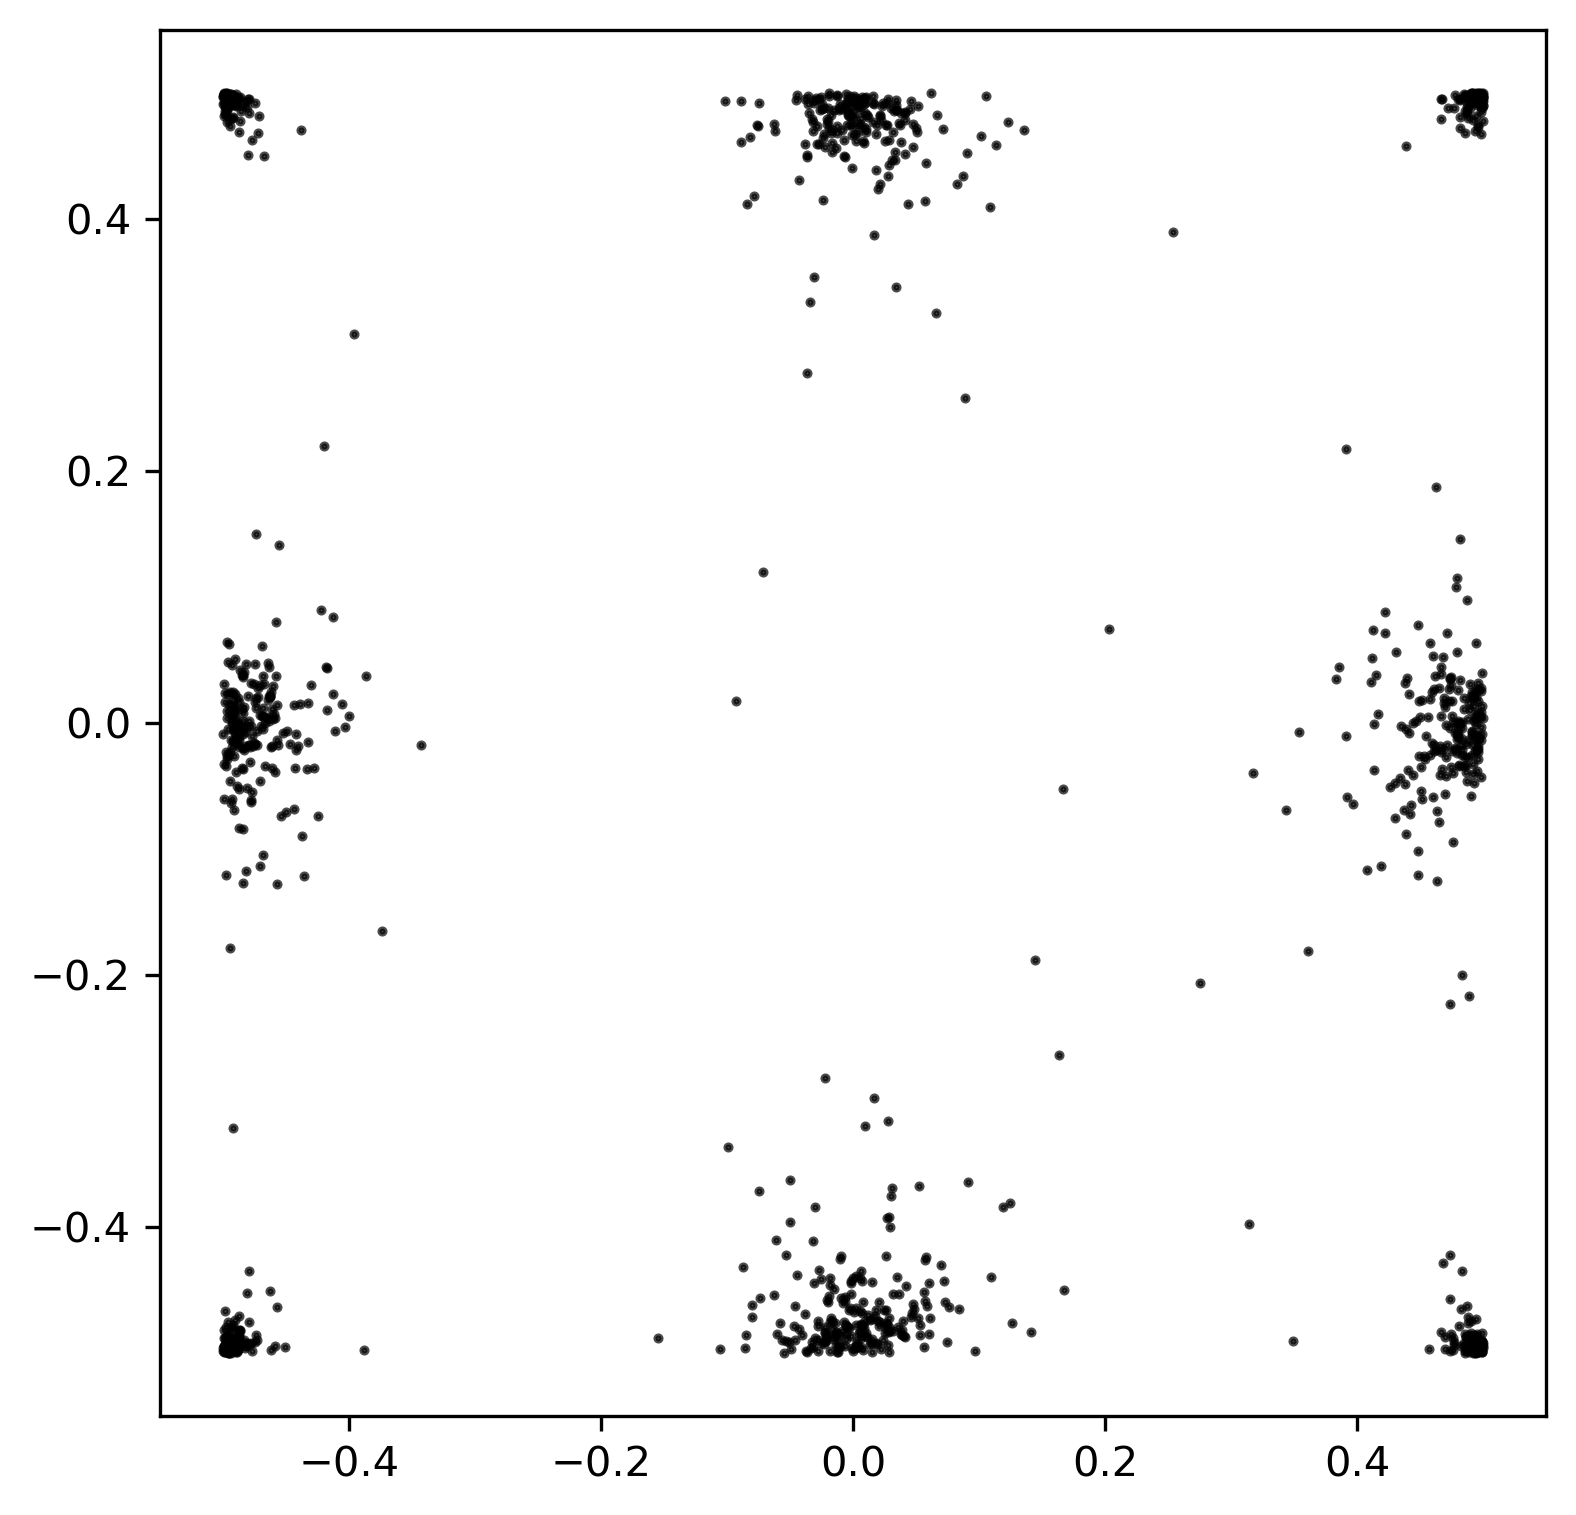
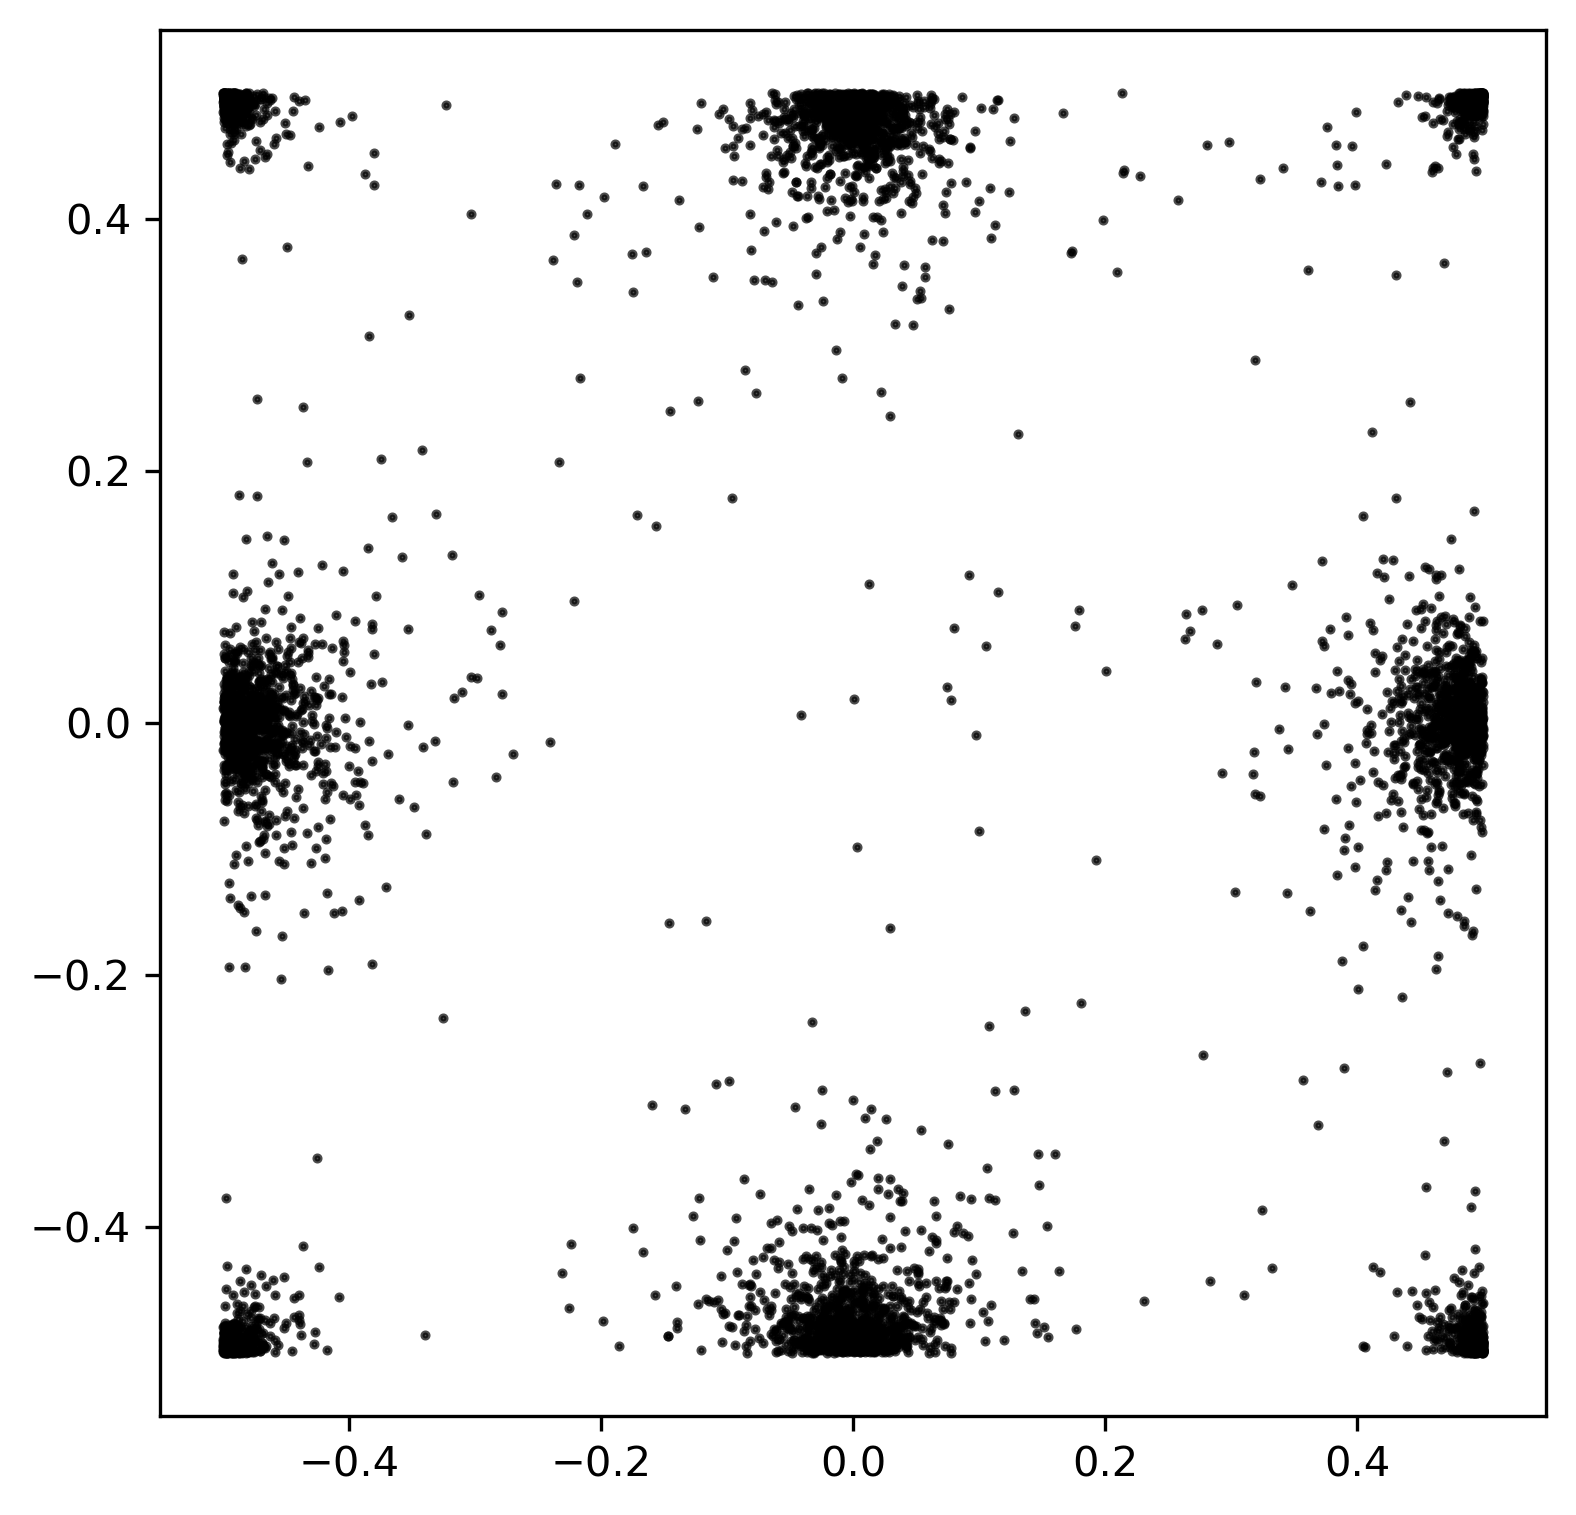
Updated weight calculations

diff --git a/IPS/PointGeneratorMathematicaCICYIPS.m b/IPS/PointGeneratorMathematicaCICYIPS.m
@@ -23,7 +23,7 @@ PrintMsg[msg_, frontEnd_, verbose_] := Module[{}, (
 
 (* Compute Fubini-Study metric with optional Hermitian matrix h *)
 getFS[varsUnflat_, bvarsUnflat_, h_: {}, kval_: 1] := Module[{hh, s, bs, kk, dimPs, result, i, j, a, b}, (
-    dimPs = Length /@ varsUnflat;
+    dimPs = (Length /@ varsUnflat) - 1;
     hh = h;
     kk = kval;
     
@@ -113,7 +113,7 @@ getWeightOmegas[varsFlat_, bvarsFlat_, varsUnflat_, dimPs_, g_, eqns_, beqns_, p
     
     (* Build Jacobian submatrix for dependent coordinates *)
     (* dw[a,i] gives derivative of ambient coordinate a with respect to intrinsic coordinate i *)
-    jacSubmatrix = Table[jacRows[[i, maxPoss[[j]]]], {i, numEqns}, {j, numEqns}];
+    jacSubmatrix = Table[jacRows[[alpha, maxPoss[[beta]]]], {alpha, numEqns}, {beta, numEqns}];
     jacSubmatrixInv = Inverse[jacSubmatrix];
 
     (* DEBUG: Check if Jacobian is singular *)
@@ -121,13 +121,30 @@ getWeightOmegas[varsFlat_, bvarsFlat_, varsUnflat_, dimPs_, g_, eqns_, beqns_, p
         Return[{Indeterminate, Indeterminate}];
     ];
 
-    dw[a_, i_] := If[a == patchIndex, 0,
+    dw[a_, i_] := If[a == patchIndex, 
+        0,
         If[MemberQ[maxPossGlobal, a],
-            (* This is a dependent coordinate *)
-            Module[{eqnIndex},
-                eqnIndex = Position[maxPossGlobal, a][[1, 1]];
-                (* Use implicit function theorem: dx_dep/dz_i = -J^(-1) * dp/dz_i *)
-                -Sum[jacSubmatrixInv[[eqnIndex, k]] * D[eqns[[k]], varsFlat[[i]]], {k, numEqns}] /. substCoords
+            (* This is a dependent coordinate: z^a = z^{dep_alpha} *)
+            Module[{alphaIndex, localIndexI},
+                (* Find which dependent coordinate this is (1 to k) *)
+                alphaIndex = Position[maxPossGlobal, a][[1, 1]];
+            
+                (* Check if i is also a dependent coordinate or independent *)
+                If[MemberQ[maxPossGlobal, i],
+                    (* i is dependent - need more complex formula *)
+                    (* For dependent coords, ∂z^{dep_alpha}/∂z^{dep_beta} involves Jacobian *)
+                    Module[{betaIndex},
+                        betaIndex = Position[maxPossGlobal, i][[1, 1]];
+                        (* This should rarely be called for standard intrinsic coordinates *)
+                        (* but we include it for completeness *)
+                        If[alphaIndex == betaIndex, 
+                            1, 
+                            0
+                        ]
+                    ],
+                    (* i is independent - apply IFT: ∂z^{dep_alpha}/∂z^i = -[J^{-1}]_{alpha,gamma} ∂p_gamma/∂z^i *)
+                    -Sum[jacSubmatrixInv[[alphaIndex, gamma]] * D[eqns[[gamma]], varsFlat[[i]]], {gamma, numEqns}] /. substCoords
+                ]
             ],
             (* This is an independent coordinate *)
             If[a == i, 1, 0]
@@ -135,7 +152,7 @@ getWeightOmegas[varsFlat_, bvarsFlat_, varsUnflat_, dimPs_, g_, eqns_, beqns_, p
     ];
     
     (* Build antiholomorphic Jacobian submatrix *)
-    bjacSubmatrix = Table[bjacRows[[i, maxPoss[[j]]]], {i, numEqns}, {j, numEqns}];
+    bjacSubmatrix = Table[bjacRows[[alpha, maxPoss[[beta]]]], {alpha, numEqns}, {beta, numEqns}];
     bjacSubmatrixInv = Inverse[bjacSubmatrix];
 
     (* DEBUG: Check if antiholomorphic Jacobian is singular *)
@@ -143,12 +160,26 @@ getWeightOmegas[varsFlat_, bvarsFlat_, varsUnflat_, dimPs_, g_, eqns_, beqns_, p
         Return[{Indeterminate, Indeterminate}];
     ];
 
-    dbw[a_, i_] := If[a == patchIndex, 0,
+    (* dbw[a,i] gives ∂\bar{z}^a/∂\bar{w}^i *)
+    dbw[a_, i_] := If[a == patchIndex, 
+        0,
         If[MemberQ[maxPossGlobal, a],
             (* This is a dependent coordinate *)
-            Module[{eqnIndex},
-                eqnIndex = Position[maxPossGlobal, a][[1, 1]];
-                -Sum[bjacSubmatrixInv[[eqnIndex, k]] * D[beqns[[k]], bvarsFlat[[i]]], {k, numEqns}] /. substbCoords
+            Module[{alphaIndex},
+                alphaIndex = Position[maxPossGlobal, a][[1, 1]];
+            
+                If[MemberQ[maxPossGlobal, i],
+                    (* i is dependent *)
+                    Module[{betaIndex},
+                        betaIndex = Position[maxPossGlobal, i][[1, 1]];
+                        If[alphaIndex == betaIndex, 
+                            1, 
+                            0
+                        ]
+                    ],
+                    (* i is independent - apply IFT *)
+                    -Sum[bjacSubmatrixInv[[alphaIndex, gamma]] * D[beqns[[gamma]], bvarsFlat[[i]]], {gamma, numEqns}] /. substbCoords
+                ]
             ],
             (* This is an independent coordinate *)
             If[a == i, 1, 0]
@@ -161,12 +192,6 @@ getWeightOmegas[varsFlat_, bvarsFlat_, varsUnflat_, dimPs_, g_, eqns_, beqns_, p
         goodCoordsIndexSet = DeleteCases[goodCoordsIndexSet, maxPossGlobal[[i]]];
     ];
     goodCoordsIndexSet = DeleteCases[goodCoordsIndexSet, patchIndex];
-
-    (* DEBUG: Check global ambient indices *)
-    Print["goodCoordsIndexSet: ", goodCoordsIndexSet];
-    Print["maxPossGlobal: ", maxPossGlobal];
-    Print["patchIndex: ", patchIndex];
-    Print["Length[ω]: ", Length[ω]];
     
     (* Pull back metric to intrinsic coordinates *)
     \[Omega]PB = Table[
@@ -198,6 +223,12 @@ GetNewLambdas[varsFlat_, bvarsFlat_, varsUnflat_, bvarsUnflat_, dimPs_, eqns_, b
     {gFS, allWeights, minData, maxData, minPoint, maxPoint, wMin, wMax, 
     \[Epsilon]Min, \[Epsilon]Max, Px, \[Lambda]Min, \[Lambda]Max, \[Lambda]MinInv, \[Lambda]MaxInv, i},
     (
+
+    Print["GetNewLambdas: Starting with ", Length[pts], " points"];
+    Print["GetNewLambdas: Current number of metrics: ", Length[Ls]];
+    Print["GetNewLambdas: dimPs = ", dimPs];
+    Print["GetNewLambdas: dimCY = ", dimCY];
+
     (* Precompute standard FS metric once *)
     gFS = getFS[varsUnflat, bvarsUnflat];
     
@@ -222,6 +253,10 @@ GetNewLambdas[varsFlat_, bvarsFlat_, varsUnflat_, bvarsUnflat_, dimPs_, eqns_, b
         {i, Length[pts]},
         DistributedContexts -> Automatic
     ];
+
+    Print["GetNewLambdas: Computed weights for all points"];
+    Print["GetNewLambdas: Number of valid weights: ", Count[allWeights, {_?NumericQ, _?NumericQ, __}]];
+    Print["GetNewLambdas: Sample of weights (first 3): ", Take[allWeights, Min[3, Length[allWeights]]]];
     
     (* Find global minimum and maximum *)
     minData = SortBy[allWeights, #[[1]] &][[1]];
@@ -234,6 +269,11 @@ GetNewLambdas[varsFlat_, bvarsFlat_, varsUnflat_, bvarsUnflat_, dimPs_, eqns_, b
     wMax = maxData[[2]];
     maxPoint = maxData[[3]];
     \[Epsilon]Max = maxData[[4]];
+
+    Print["GetNewLambdas: wMin = ", wMin, ", wMax = ", wMax];
+    Print["GetNewLambdas: εMin = ", εMin, ", εMax = ", εMax];
+    Print["GetNewLambdas: minPoint = ", minPoint];
+    Print["GetNewLambdas: maxPoint = ", maxPoint];
     
     (* Construct Lambda matrices for each projective space *)
     \[Lambda]Min = Table[
@@ -257,6 +297,11 @@ GetNewLambdas[varsFlat_, bvarsFlat_, varsUnflat_, bvarsUnflat_, dimPs_, eqns_, b
         ],
         {i, Length[dimPs]}
     ];
+
+    Print["GetNewLambdas: λMin matrices dimensions: ", Dimensions /@ λMin];
+    Print["GetNewLambdas: λMax matrices dimensions: ", Dimensions /@ λMax];
+    Print["GetNewLambdas: λMin[[1]] = ", λMin[[1]]];
+    Print["GetNewLambdas: λMax[[1]] = ", λMax[[1]]];
     
     (* Hermitianize the inverse matrices *)
     \[Lambda]MinInv = Table[
@@ -274,6 +319,12 @@ GetNewLambdas[varsFlat_, bvarsFlat_, varsUnflat_, bvarsUnflat_, dimPs_, eqns_, b
         ],
         {i, Length[\[Lambda]Max]}
     ];
+
+    Print["GetNewLambdas: λMinInv dimensions: ", Dimensions /@ λMinInv];
+    Print["GetNewLambdas: λMaxInv dimensions: ", Dimensions /@ λMaxInv];
+    Print["GetNewLambdas: Checking if Cholesky will work..."];
+    Print["GetNewLambdas: λMinInv[[1]] numeric? ", And @@ (NumericQ /@ Flatten[λMinInv[[1]]])];
+    Print["GetNewLambdas: λMaxInv[[1]] numeric? ", And @@ (NumericQ /@ Flatten[λMaxInv[[1]]])];
     
     Return[{
         Table[CholeskyDecomposition[\[Lambda]MinInv[[i]]], {i, Length[\[Lambda]MinInv]}],
@@ -286,6 +337,9 @@ getPointsOnCYIPS[varsUnflat_, numParamsInPn_, dimPs_, params_, pointsOnSphere_,
     eqns_, L_, precision_: 20] := Module[
     {subst, pts, i, j, a, b, res, maxPoss, absPts, transformedSphere},
     (
+    Print["getPointsOnCYIPS: L structure: ", Dimensions /@ L];
+    Print["getPointsOnCYIPS: pointsOnSphere structure: ", Dimensions /@ pointsOnSphere];
+    Print["getPointsOnCYIPS: First L matrix: ", L[[1]]];
     (* Apply metric transformation to sphere points *)
     transformedSphere = Table[
         Table[
@@ -294,6 +348,9 @@ getPointsOnCYIPS[varsUnflat_, numParamsInPn_, dimPs_, params_, pointsOnSphere_,
         ],
         {j, Length[pointsOnSphere]}
     ];
+    Print["getPointsOnCYIPS: Sample transformed point: ", transformedSphere[[1, 1]]];
+    Print["getPointsOnCYIPS: Sample original point: ", pointsOnSphere[[1, 1]]];
+    Print["getPointsOnCYIPS: Are they different? ", transformedSphere[[1, 1]] != pointsOnSphere[[1, 1]]];
     subst = {};
     pts = {};
     For[j = 1, j <= Length[dimPs], j++,
@@ -411,7 +468,8 @@ SamplePointsIPS[varsFlat_, bvarsFlat_, varsUnflat_, bvarsUnflat_, dimPs_,
         {i, Length[dimPs]},
         DistributedContexts -> Automatic
     ];
-    
+
+    Print["SamplePointsIPS: About to sample ", numPoints, " intersections with L having dimensions: ", Dimensions /@ L];
     (* Sample points with metric transformation *)
     pts = ParallelTable[
         getPointsOnCYIPS[varsUnflat, numParamsInPn, dimPs, params,
@@ -423,6 +481,7 @@ SamplePointsIPS[varsFlat_, bvarsFlat_, varsUnflat_, bvarsUnflat_, dimPs_,
     ];
     
     pts = Flatten[pts, 1];
+    Print["SamplePointsIPS: Found ", Length[pts], " raw points"];
     
     (* Compute metric *)
     g = getFS[varsUnflat, bvarsUnflat, Table[ConjugateTranspose[L[[k]]] . L[[k]], {k, Length[L]}]];
@@ -439,6 +498,8 @@ SamplePointsIPS[varsFlat_, bvarsFlat_, varsUnflat_, bvarsUnflat_, dimPs_,
         {i, Length[pts]},
         DistributedContexts -> Automatic
     ];
+    Print["SamplePointsIPS: Computed weights for ", Length[allPts], " points"];
+    Print["SamplePointsIPS: Number with valid weights: ", Count[allPts[[;;, 2]], _?NumericQ]];
     
     (* Estimate kappa if not provided *)
     \[Kappa] = \[Kappa]In;
@@ -446,6 +507,19 @@ SamplePointsIPS[varsFlat_, bvarsFlat_, varsUnflat_, bvarsUnflat_, dimPs_,
         \[Kappa] = 1/Mean[allPts[[;;, 2]]];
         allPts[[;;, 2]] = allPts[[;;, 2]] * \[Kappa];
     ];
+
+    (* NEW DEBUG PRINTS HERE *)
+    Print["SamplePointsIPS: First 3 points and their weights:"];
+    Print["  Point 1: ", allPts[[1, 1]], " -> weight: ", allPts[[1, 2]]];
+    If[Length[allPts] >= 2,
+        Print["  Point 2: ", allPts[[2, 1]], " -> weight: ", allPts[[2, 2]]];
+    ];
+    If[Length[allPts] >= 3,
+        Print["  Point 3: ", allPts[[3, 1]], " -> weight: ", allPts[[3, 2]]];
+    ];
+    Print["SamplePointsIPS: Weight statistics - Min: ", Min[allPts[[;;, 2]]], 
+          ", Max: ", Max[allPts[[;;, 2]]], ", Mean: ", Mean[allPts[[;;, 2]]]];
+    Print["SamplePointsIPS: L matrix being used: ", L[[1, 1;;2, 1;;2]]];
     
     Return[{allPts, \[Kappa]}];
 )];
@@ -472,7 +546,7 @@ GeneratePointsMCICYIPS[TotalNumPts_, NumRegions_, dimPs_, coefficients_, exponen
     bvarsFlat = Flatten[bvarsUnflat];
     
     (* Calculate CICY dimension *)
-    dimCY = Plus @@ (dimPs + 1) - Length[coefficients];
+    dimCY = Plus @@ dimPs - Length[coefficients];
     
     (* Reconstruct equations *)
     eqns = Table[

diff --git a/IPS/run_CICY_IPS.m b/IPS/run_CICY_IPS.m
@@ -16,8 +16,8 @@ exponents = {{{1,0,2}, {0,3,0}, {2,1,0}}};
 
 (* Generate points *)
 {points, weights, omegas, kappas, {dimCY}} = GeneratePointsMCICYIPS[
-    1000,      (* total points *)
-    5,         (* regions *)
+    10^2,      (* total points *)
+    11,         (* regions *)
     dimPs,
     coefficients,
     exponents,
